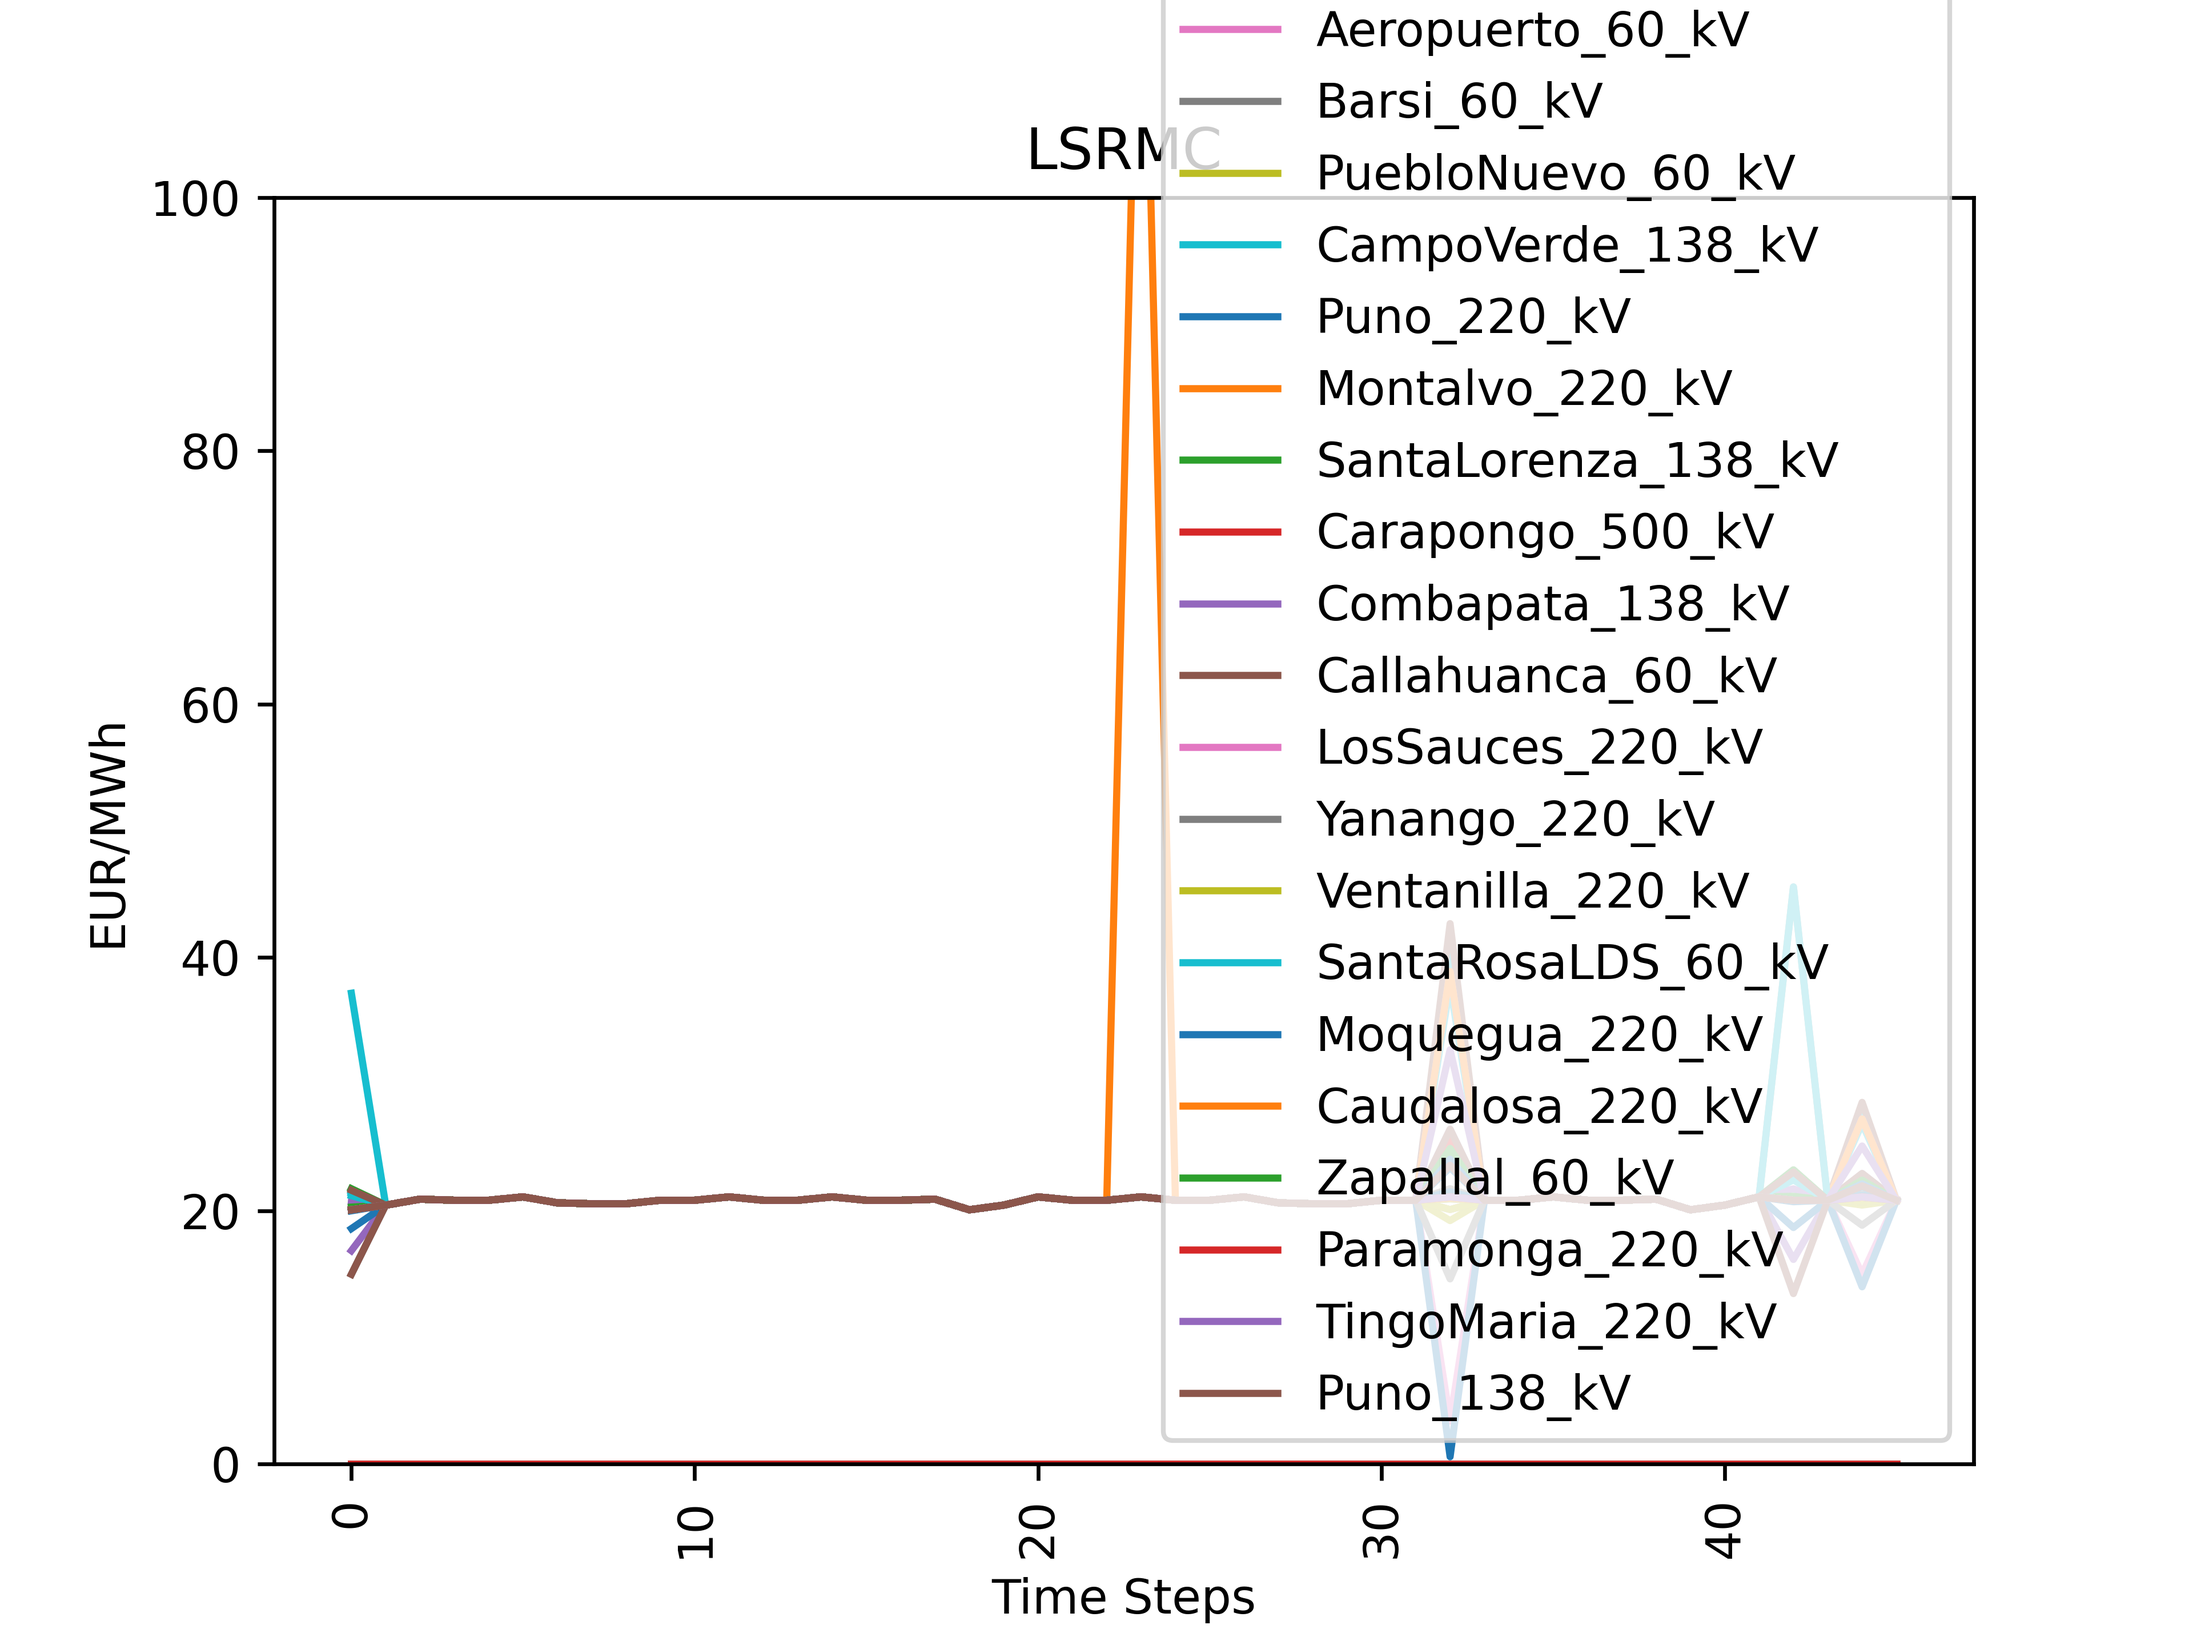
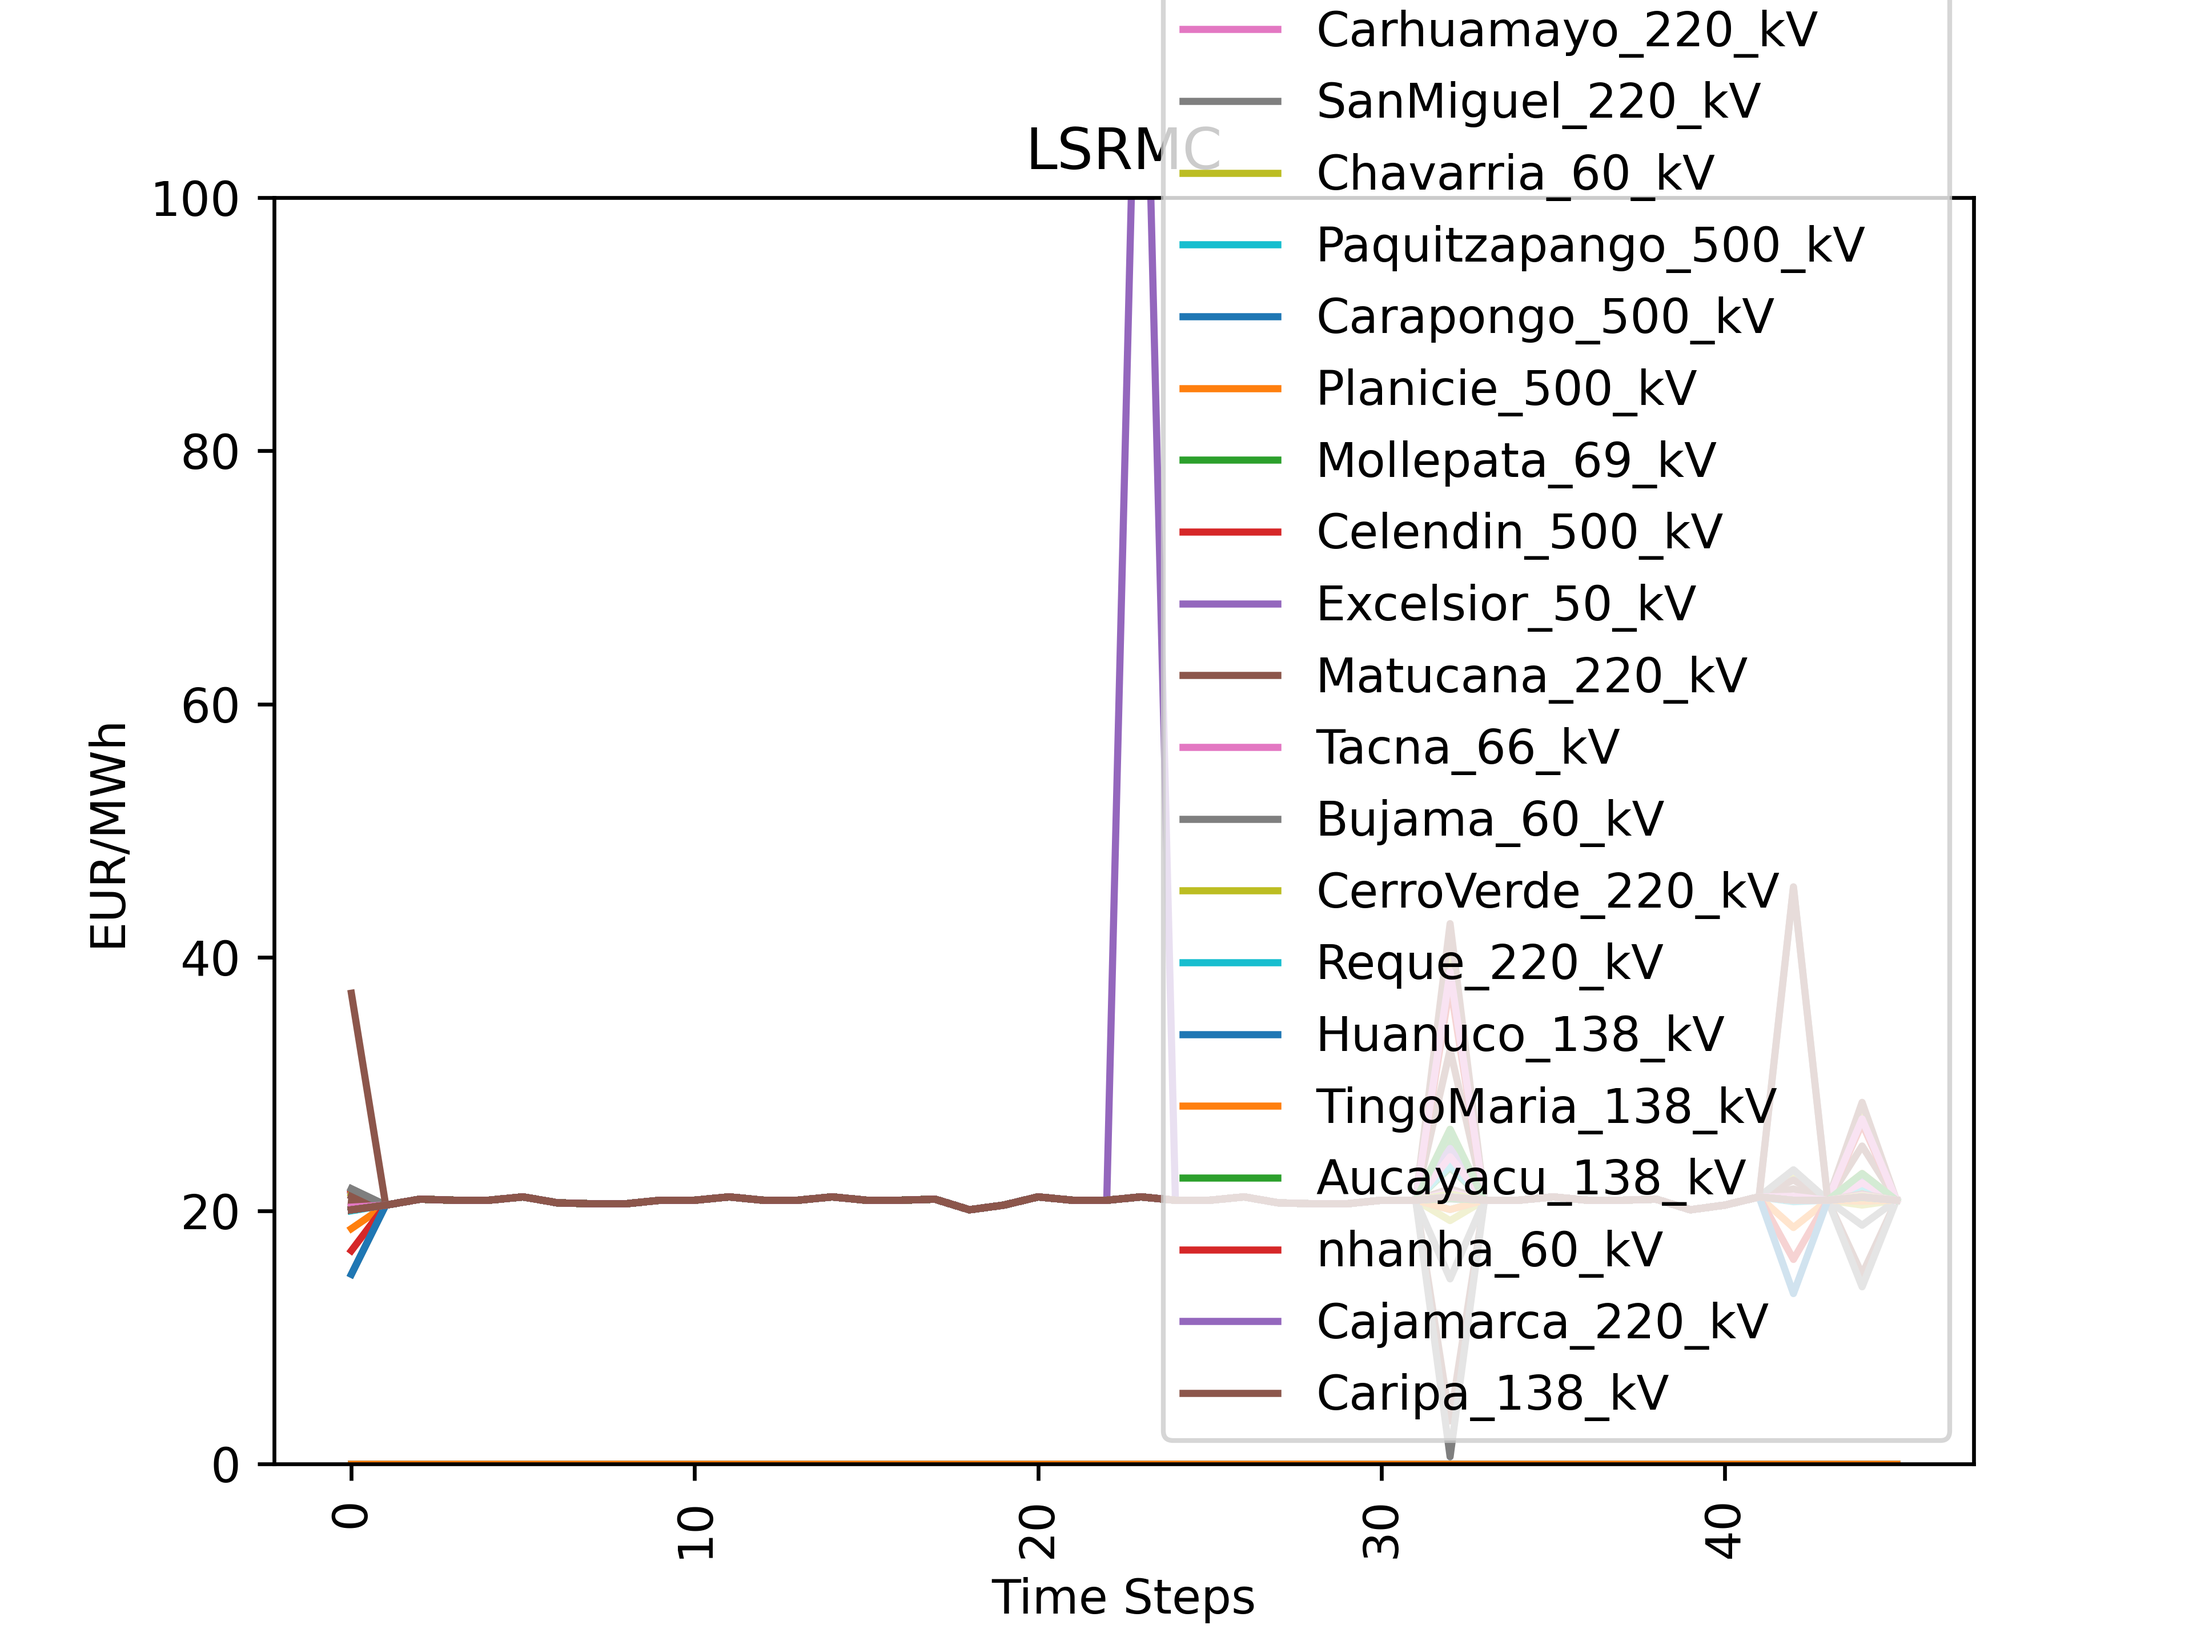
Update

Changed region(s): [[0.5938, 0.0, 0.875, 0.875], [0.5, 0.125, 0.5625, 0.7188], [0.1562, 0.625, 0.1875, 0.7812]]

diff --git a/src/openTEPES/openTEPES_OutputResults.py b/src/openTEPES/openTEPES_OutputResults.py
@@ -409,10 +409,6 @@ def OutputResults(CaseName, mTEPES):
     # # fg.add_geometries([polyPE], crs=ccrs.PlateCarree(), facecolor='C9', edgecolor='0.5')
 
     # node name
-    # font = {'family': 'normal',
-    #         # 'weight': 'bold',
-    #         'size': 5}
-    # plt.rc('font', **font)
     for nd in mTEPES.nd:
         # plt.annotate(nd, [mTEPES.pNodeLon[nd], mTEPES.pNodeLat[nd]])
         # Add text 25 pixels to the left of the volcano.

diff --git a/src/openTEPES/openTEPES.py b/src/openTEPES/openTEPES.py
@@ -97,7 +97,7 @@ from openTEPES_OutputResults    import OutputResults
 
 StartTime = time.time()
 
-CaseName   = '9n'
+CaseName   = 'SEIN'
 
 SolverName = 'gurobi'
 
